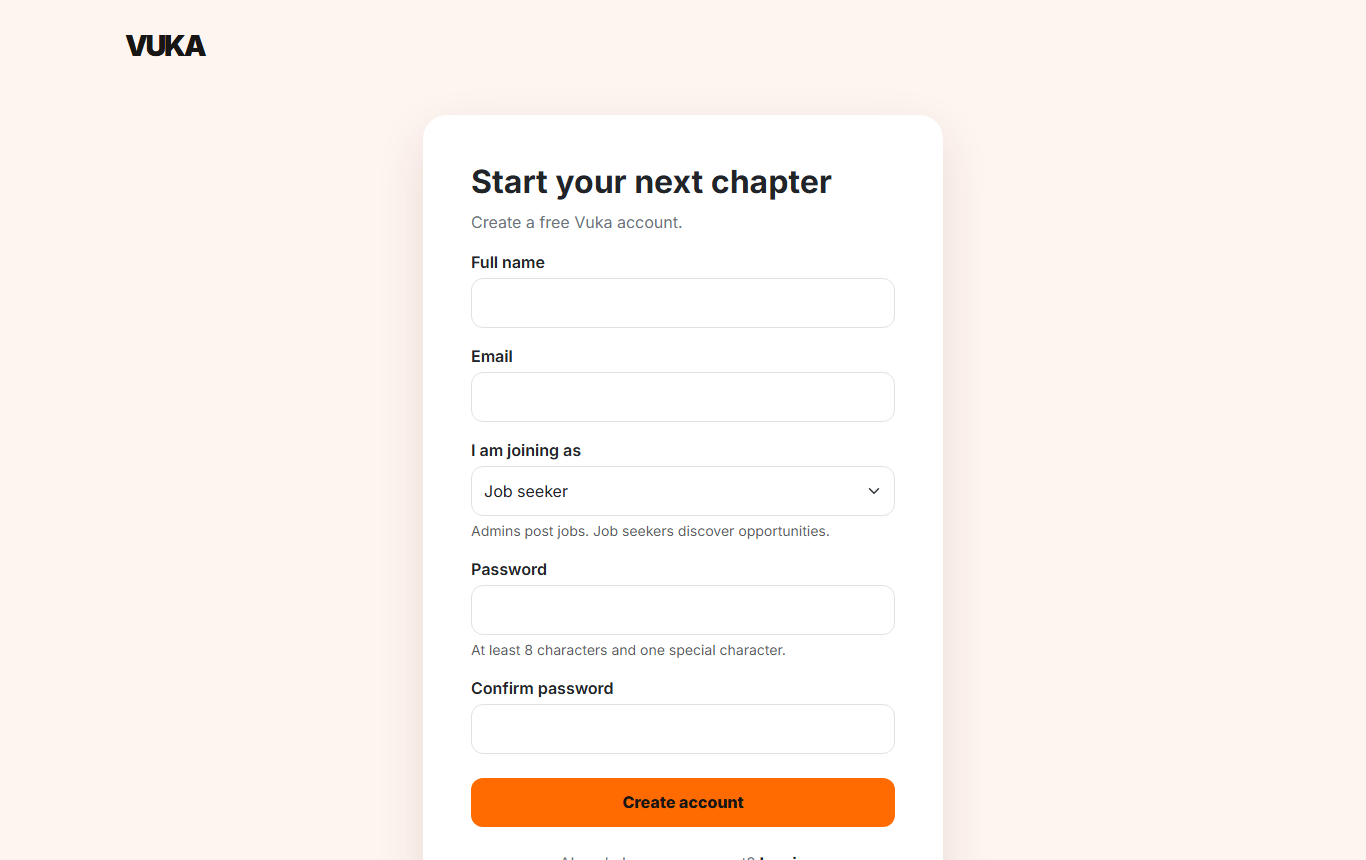
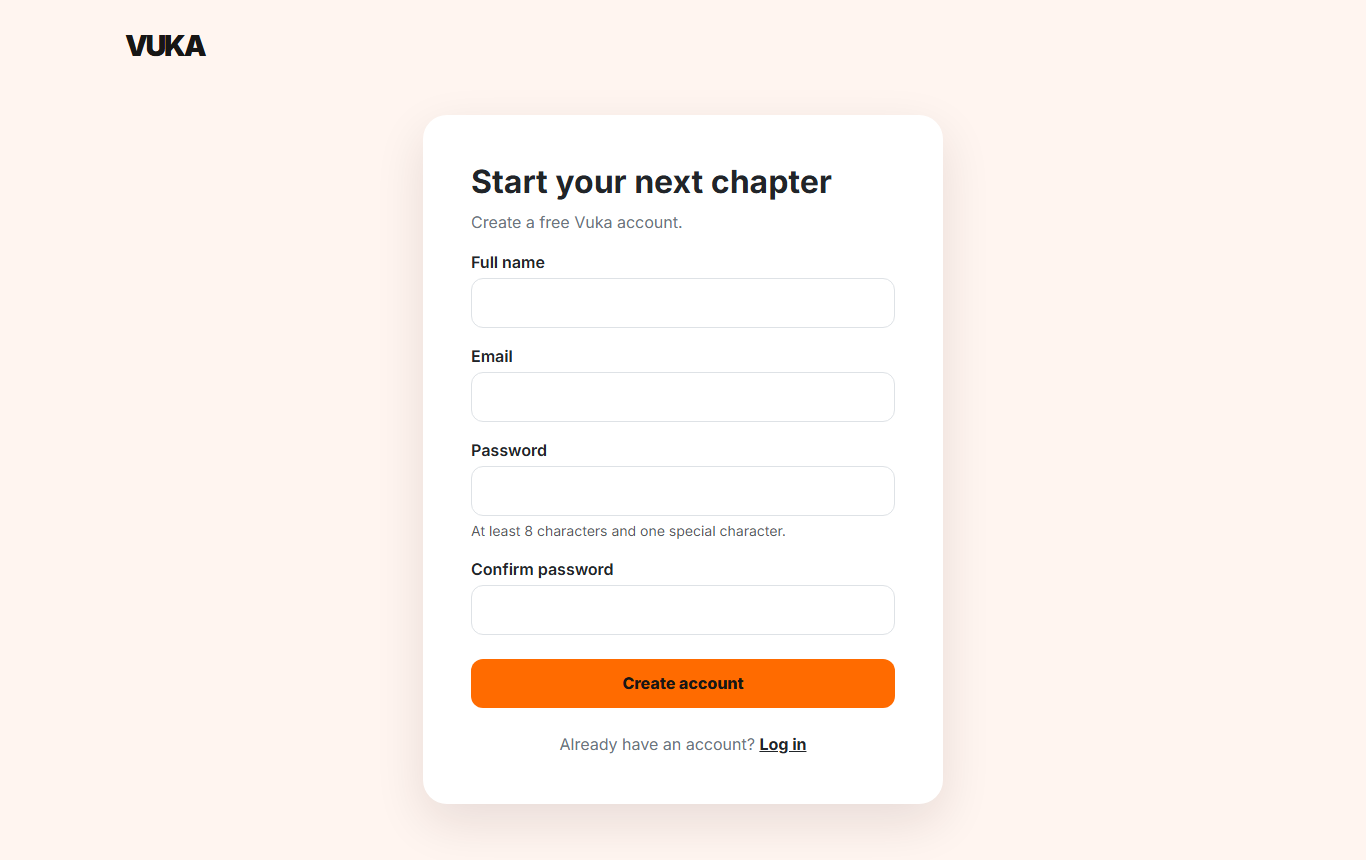
Block admin self-signup and keep hosting credentials out of git
Sign-up now always creates job-seeker accounts; admins are promoted in
the database. database.php loads optional config.php (gitignored) so
live-server passwords never get committed.

diff --git a/signup.php b/signup.php
@@ -1,11 +1,14 @@
 <?php
 session_start(); require_once 'database.php';
 if (isset($_SESSION['loggedinEmail'])) { header('Location: dashboard.php'); exit; }
-$errors=[]; $fullName=''; $email=''; $role='user';
+$errors=[]; $fullName=''; $email='';
+// Everyone who signs up is a job seeker. Admin (employer) accounts are promoted
+// directly in the database, so strangers can't give themselves admin rights.
+$role='user';
 if ($_SERVER['REQUEST_METHOD']==='POST') {
- $fullName=trim($_POST['full_name']??''); $email=trim($_POST['email']??''); $password=$_POST['password']??''; $confirmPassword=$_POST['confirm_password']??''; $role=$_POST['role']??'user';
- if($fullName==='')$errors['full_name']='Full name is required.'; if($email==='')$errors['email']='Email address is required.'; elseif(!filter_var($email,FILTER_VALIDATE_EMAIL))$errors['email']='Enter a valid email address.'; if(!in_array($role,['user','admin'],true))$errors['role']='Choose an account type.'; if($password==='')$errors['password']='Password is required.'; elseif(strlen($password)<8)$errors['password']='Use at least 8 characters.'; elseif(!preg_match('/[^a-zA-Z0-9]/',$password))$errors['password']='Include at least one special character.'; if($confirmPassword==='')$errors['confirm_password']='Please confirm your password.'; elseif($password!==$confirmPassword)$errors['confirm_password']='Passwords do not match.';
- if(!$errors){$check=$conn->prepare('SELECT id FROM users WHERE email=? LIMIT 1');$check->bind_param('s',$email);$check->execute();if($check->get_result()->fetch_assoc())$errors['email']='This email has already been registered. Please log in.';else{$hash=password_hash($password,PASSWORD_DEFAULT);$add=$conn->prepare('INSERT INTO users (full_name,email,password,role) VALUES (?,?,?,?)');$add->bind_param('ssss',$fullName,$email,$hash,$role);if($add->execute()){session_regenerate_id(true);$_SESSION['loggedinEmail']=$email;$_SESSION['userName']=$fullName;$_SESSION['userId']=$conn->insert_id;$_SESSION['userRole']=$role;header('Location: '.($role==='admin'?'admin.php':'dashboard.php'));exit;}$errors['email']='We could not create your account. Please try again.';}}
+ $fullName=trim($_POST['full_name']??''); $email=trim($_POST['email']??''); $password=$_POST['password']??''; $confirmPassword=$_POST['confirm_password']??'';
+ if($fullName==='')$errors['full_name']='Full name is required.'; if($email==='')$errors['email']='Email address is required.'; elseif(!filter_var($email,FILTER_VALIDATE_EMAIL))$errors['email']='Enter a valid email address.'; if($password==='')$errors['password']='Password is required.'; elseif(strlen($password)<8)$errors['password']='Use at least 8 characters.'; elseif(!preg_match('/[^a-zA-Z0-9]/',$password))$errors['password']='Include at least one special character.'; if($confirmPassword==='')$errors['confirm_password']='Please confirm your password.'; elseif($password!==$confirmPassword)$errors['confirm_password']='Passwords do not match.';
+ if(!$errors){$check=$conn->prepare('SELECT id FROM users WHERE email=? LIMIT 1');$check->bind_param('s',$email);$check->execute();if($check->get_result()->fetch_assoc())$errors['email']='This email has already been registered. Please log in.';else{$hash=password_hash($password,PASSWORD_DEFAULT);$add=$conn->prepare('INSERT INTO users (full_name,email,password,role) VALUES (?,?,?,?)');$add->bind_param('ssss',$fullName,$email,$hash,$role);if($add->execute()){session_regenerate_id(true);$_SESSION['loggedinEmail']=$email;$_SESSION['userName']=$fullName;$_SESSION['userId']=$conn->insert_id;$_SESSION['userRole']=$role;header('Location: dashboard.php');exit;}$errors['email']='We could not create your account. Please try again.';}}
 }
 ?>
-<!doctype html><html lang="en"><head><meta charset="utf-8"><meta name="viewport" content="width=device-width,initial-scale=1"><title>Join Vuka</title><link href="https://cdn.jsdelivr.net/npm/bootstrap@5.3.2/dist/css/bootstrap.min.css" rel="stylesheet"><link href="https://fonts.googleapis.com/css2?family=Inter:wght@400;600;700;800;900&display=swap" rel="stylesheet"><style>body{font-family:Inter,sans-serif;background:#fff5f0;color:#171615}.brand{font-size:1.8rem;font-weight:900;letter-spacing:-.08em;color:#171615;text-decoration:none}.card{max-width:520px;border:0;border-radius:1.5rem;box-shadow:0 18px 50px #2b160f1c}.form-control,.form-select{border-radius:.75rem;padding:.75rem}.btn-vuka{background:#ff6b00;border:0;color:#171615;font-weight:800;border-radius:.75rem;padding:.8rem}.btn-vuka:hover{background:#e85f00}</style></head><body><header class="container py-4"><a class="brand" href="index.php">VUKA</a></header><main class="container py-4"><section class="card mx-auto p-4 p-md-5"><h1 class="h2 fw-bold">Start your next chapter</h1><p class="text-secondary">Create a free Vuka account.</p><form method="post" novalidate><div class="mb-3"><label class="fw-semibold mb-1" for="full_name">Full name</label><input class="form-control <?php echo isset($errors['full_name'])?'is-invalid':''; ?>" id="full_name" name="full_name" value="<?php echo htmlspecialchars($fullName); ?>"><?php if(isset($errors['full_name'])):?><div class="invalid-feedback"><?php echo $errors['full_name']; ?></div><?php endif;?></div><div class="mb-3"><label class="fw-semibold mb-1" for="email">Email</label><input class="form-control <?php echo isset($errors['email'])?'is-invalid':''; ?>" id="email" type="email" name="email" value="<?php echo htmlspecialchars($email); ?>"><?php if(isset($errors['email'])):?><div class="invalid-feedback"><?php echo $errors['email']; ?></div><?php endif;?></div><div class="mb-3"><label class="fw-semibold mb-1" for="role">I am joining as</label><select class="form-select" id="role" name="role"><option value="user" <?php echo $role==='user'?'selected':''; ?>>Job seeker</option><option value="admin" <?php echo $role==='admin'?'selected':''; ?>>Admin / employer</option></select><div class="form-text">Admins post jobs. Job seekers discover opportunities.</div></div><div class="mb-3"><label class="fw-semibold mb-1" for="password">Password</label><input class="form-control <?php echo isset($errors['password'])?'is-invalid':''; ?>" id="password" type="password" name="password"><?php if(isset($errors['password'])):?><div class="invalid-feedback"><?php echo $errors['password']; ?></div><?php else:?><div class="form-text">At least 8 characters and one special character.</div><?php endif;?></div><div class="mb-4"><label class="fw-semibold mb-1" for="confirm_password">Confirm password</label><input class="form-control <?php echo isset($errors['confirm_password'])?'is-invalid':''; ?>" id="confirm_password" type="password" name="confirm_password"><?php if(isset($errors['confirm_password'])):?><div class="invalid-feedback"><?php echo $errors['confirm_password']; ?></div><?php endif;?></div><button class="btn btn-vuka w-100" type="submit">Create account</button></form><p class="text-center text-secondary mt-4 mb-0">Already have an account? <a class="fw-bold text-dark" href="login.php">Log in</a></p></section></main></body></html>
+<!doctype html><html lang="en"><head><meta charset="utf-8"><meta name="viewport" content="width=device-width,initial-scale=1"><title>Join Vuka</title><link href="https://cdn.jsdelivr.net/npm/bootstrap@5.3.2/dist/css/bootstrap.min.css" rel="stylesheet"><link href="https://fonts.googleapis.com/css2?family=Inter:wght@400;600;700;800;900&display=swap" rel="stylesheet"><style>body{font-family:Inter,sans-serif;background:#fff5f0;color:#171615}.brand{font-size:1.8rem;font-weight:900;letter-spacing:-.08em;color:#171615;text-decoration:none}.card{max-width:520px;border:0;border-radius:1.5rem;box-shadow:0 18px 50px #2b160f1c}.form-control,.form-select{border-radius:.75rem;padding:.75rem}.btn-vuka{background:#ff6b00;border:0;color:#171615;font-weight:800;border-radius:.75rem;padding:.8rem}.btn-vuka:hover{background:#e85f00}</style></head><body><header class="container py-4"><a class="brand" href="index.php">VUKA</a></header><main class="container py-4"><section class="card mx-auto p-4 p-md-5"><h1 class="h2 fw-bold">Start your next chapter</h1><p class="text-secondary">Create a free Vuka account.</p><form method="post" novalidate><div class="mb-3"><label class="fw-semibold mb-1" for="full_name">Full name</label><input class="form-control <?php echo isset($errors['full_name'])?'is-invalid':''; ?>" id="full_name" name="full_name" value="<?php echo htmlspecialchars($fullName); ?>"><?php if(isset($errors['full_name'])):?><div class="invalid-feedback"><?php echo $errors['full_name']; ?></div><?php endif;?></div><div class="mb-3"><label class="fw-semibold mb-1" for="email">Email</label><input class="form-control <?php echo isset($errors['email'])?'is-invalid':''; ?>" id="email" type="email" name="email" value="<?php echo htmlspecialchars($email); ?>"><?php if(isset($errors['email'])):?><div class="invalid-feedback"><?php echo $errors['email']; ?></div><?php endif;?></div><div class="mb-3"><label class="fw-semibold mb-1" for="password">Password</label><input class="form-control <?php echo isset($errors['password'])?'is-invalid':''; ?>" id="password" type="password" name="password"><?php if(isset($errors['password'])):?><div class="invalid-feedback"><?php echo $errors['password']; ?></div><?php else:?><div class="form-text">At least 8 characters and one special character.</div><?php endif;?></div><div class="mb-4"><label class="fw-semibold mb-1" for="confirm_password">Confirm password</label><input class="form-control <?php echo isset($errors['confirm_password'])?'is-invalid':''; ?>" id="confirm_password" type="password" name="confirm_password"><?php if(isset($errors['confirm_password'])):?><div class="invalid-feedback"><?php echo $errors['confirm_password']; ?></div><?php endif;?></div><button class="btn btn-vuka w-100" type="submit">Create account</button></form><p class="text-center text-secondary mt-4 mb-0">Already have an account? <a class="fw-bold text-dark" href="login.php">Log in</a></p></section></main></body></html>

diff --git a/database.php b/database.php
@@ -1,8 +1,16 @@
 <?php
+// Default settings for a fresh XAMPP install on your own computer.
 $host = '127.0.0.1';
 $user = 'root';
 $password = '';
 $database = 'vuka_db';
+
+// On a live host, put the real database details in config.php (copy
+// config.example.php). config.php is listed in .gitignore, so the password
+// never ends up on GitHub.
+if (file_exists(__DIR__ . '/config.php')) {
+    require __DIR__ . '/config.php';
+}
 
 $conn = new mysqli($host, $user, $password, $database);
 

diff --git a/config.example.php b/config.example.php
@@ -1,0 +1,7 @@
+<?php
+// Copy this file to config.php on your web host and fill in the database
+// details from your hosting control panel. Never commit config.php.
+$host = 'sqlXXX.infinityfree.com';
+$user = 'if0_XXXXXXXX';
+$password = 'your-hosting-password';
+$database = 'if0_XXXXXXXX_vuka';

diff --git a/README.md b/README.md
@@ -24,6 +24,7 @@ I built it from scratch in plain PHP, with no framework, to learn how a real web
 - Save or unsave a job with one click, and view all saved jobs in one place
 
 **For employers / admins**
+- Admin accounts can't be created from the public sign-up form. The site owner promotes them in the database, so strangers can't post jobs.
 - A separate admin dashboard (job seekers can't open it)
 - Form to post a new job: title, company, location, type (Full-time, Part-time, Contract, Remote, Internship) and description
 - List of all jobs you have posted. Click one to see its full details in a pop-up
@@ -42,7 +43,8 @@ I built it from scratch in plain PHP, with no framework, to learn how a real web
 | **User accounts** | `signup.php` validates the form on the server: required fields, a valid email, a password of at least 8 characters with one special character, and matching passwords. It also checks that the email isn't already registered. |
 | **Password security** | Passwords are never stored as plain text. They are hashed with `password_hash()` and checked at login with `password_verify()`. |
 | **Sessions & login** | After a successful login, PHP `$_SESSION` stores the user's ID, name, email and role. `session_regenerate_id()` runs on login to protect against session hijacking. `logout.php` clears the session. |
-| **Roles & access control** | Every user is either a `user` (job seeker) or an `admin` (employer). Each protected page checks the session first and redirects anyone who shouldn't be there. For example, a job seeker trying to open `admin.php` is sent back to their dashboard. |
+| **Roles & access control** | Every user is either a `user` (job seeker) or an `admin` (employer). The sign-up page always creates job seekers, even if someone tampers with the form, so admin rights can only be granted in the database. Each protected page checks the session first and redirects anyone who shouldn't be there. For example, a job seeker trying to open `admin.php` is sent back to their dashboard. |
+| **Keeping secrets off GitHub** | `database.php` uses the local XAMPP defaults. On a live server, it loads the real database password from `config.php`, a file listed in `.gitignore` so it is never pushed to GitHub. |
 | **Preventing SQL injection** | Queries that use form data are built with **prepared statements** (`prepare()` + `bind_param()`), so user input is never pasted directly into SQL. |
 | **Preventing XSS** | Everything shown on a page that came from a user, such as job titles, names and descriptions, goes through `htmlspecialchars()` first. |
 | **A small JSON API** | `save-job.php` works as an API endpoint. When you click **Save** on the jobs page, JavaScript sends a `fetch()` request to it. PHP adds or removes the saved job in the database and returns a JSON reply, so the page updates without reloading. |
@@ -87,7 +89,8 @@ VukaPhp/
 ├── save-job.php            JSON endpoint that saves/unsaves a job
 ├── admin.php               Employer dashboard: post jobs and view your postings
 ├── footer.php              Footer component
-├── database.php            MySQL connection settings
+├── database.php            MySQL connection (local XAMPP defaults)
+├── config.example.php      Template for live-server database settings (copy to config.php)
 ├── database.sql            Creates the database and all tables
 ├── schema-update.sql       Upgrade script for older copies of the database
 ├── saved-jobs-update.sql   Upgrade script that adds the saved_jobs table
@@ -108,7 +111,11 @@ VukaPhp/
 3. **Create the database:** open http://localhost/phpmyadmin, click the **SQL** tab, paste in the contents of `database.sql` and click **Go**.
 4. **Check the connection settings** in `database.php`. They match a fresh XAMPP install (user `root`, no password). Change them if your MySQL login is different.
 5. **Open the site:** http://localhost/VukaPhp/
-6. Sign up as an **Admin / employer** and post a few jobs, then sign up again as a **Job seeker** to browse and save them.
+6. **Create an admin (employer) account:** sign up on the site, then in phpMyAdmin's SQL tab run:
+   ```sql
+   UPDATE vuka_db.users SET role = 'admin' WHERE email = 'the-email-you-signed-up-with';
+   ```
+   Log in again choosing **Admin / employer** to post jobs. Then sign up with a different email as a job seeker to browse and save them.
 
 ---
 
@@ -118,4 +125,4 @@ VukaPhp/
 - Editing and deleting posted jobs
 - Password reset by email
 - "Continue with Google" sign-in (the button is there, but it isn't connected yet)
-- Admin approval for new employer accounts
+- An employer sign-up flow with admin approval (right now, admin accounts are set up in the database)
